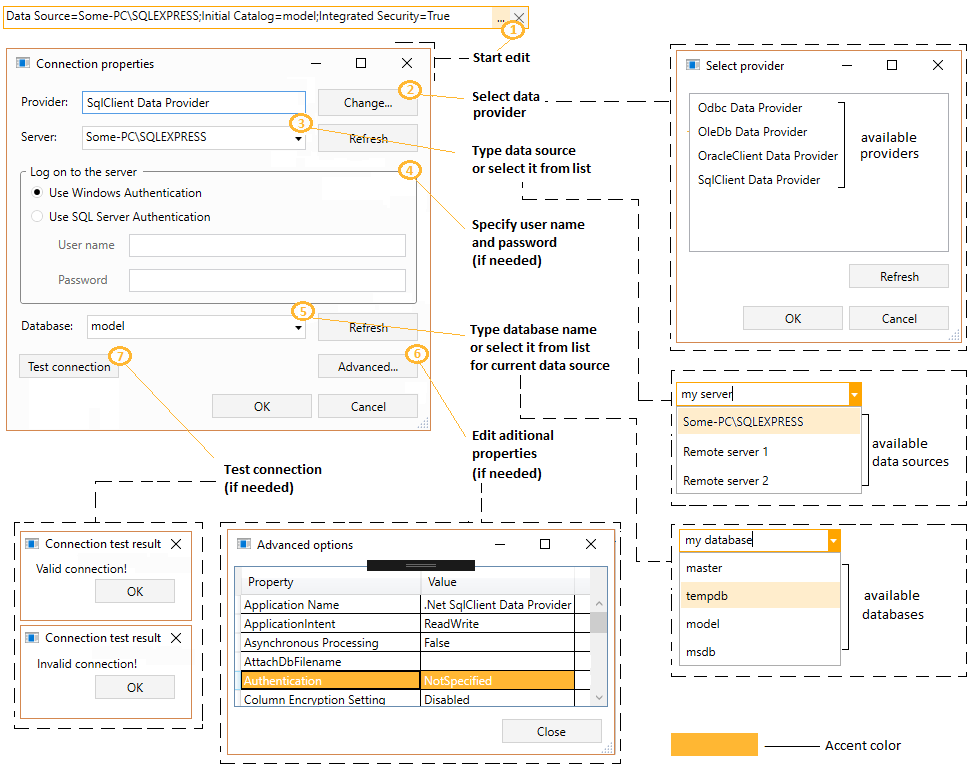
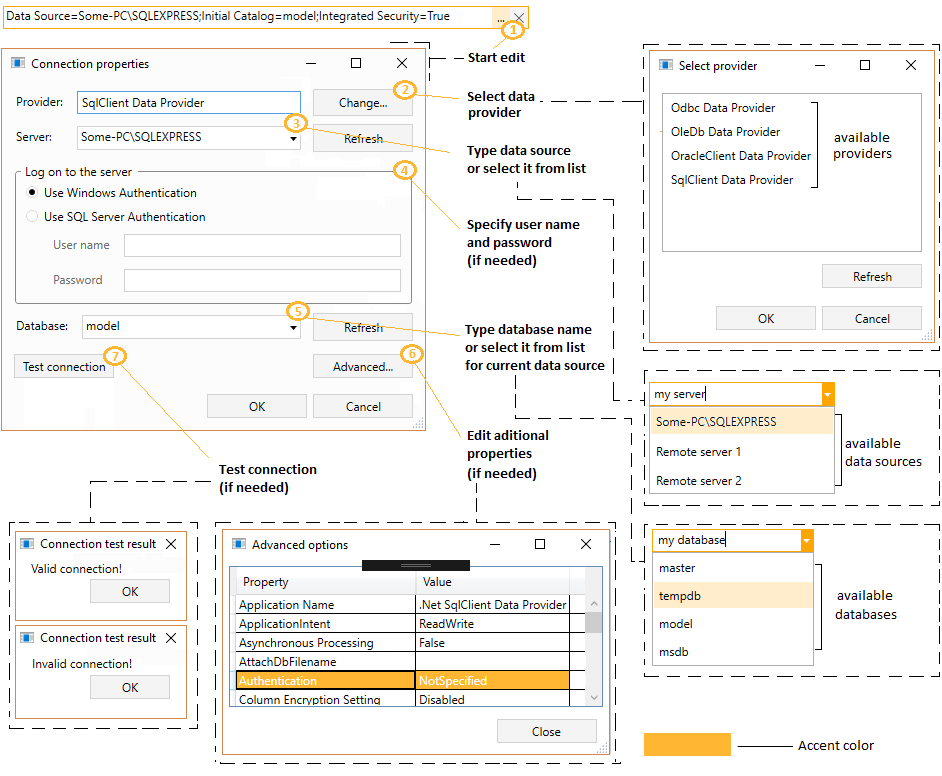
fix image size

diff --git a/orc.controls/connectionstringbuilder.htm b/orc.controls/connectionstringbuilder.htm
@@ -231,7 +231,7 @@
 <p>This control allows user to build connection string for remote and local data sources.
 <br />Inherits from <a href="https://catelproject.atlassian.net/wiki/display/CTL/UserControl" target="_blank">Catel.Windows.Controls.UserControl</a></p>
 <p>It works as shown below.
-<img src="../images/orc.controls/connectionstringbuilder/ConnectionStringBuilder_01.png" alt="ConnectionStringBuilder 01" width="979" height="773" /></p>
+<img src="../images/orc.controls/connectionstringbuilder/ConnectionStringBuilder_01.png" alt="ConnectionStringBuilder 01" width="942" height="776" /></p>
 <h2 id="properties">Properties<a class="headerlink" href="#properties" title="Permalink to this headline"><i class="fa fa-link" aria-hidden="true"></i></a></h2>
 <table class="table table-bordered-all table-responsive">
 <thead>
